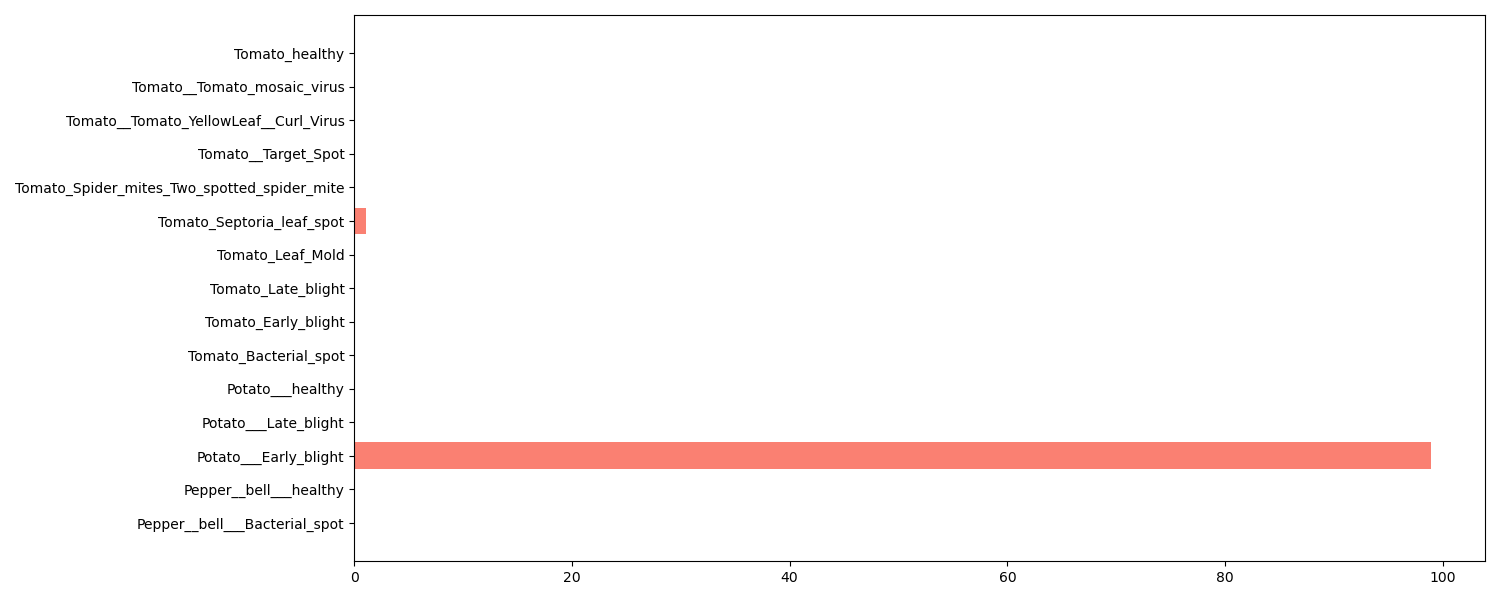
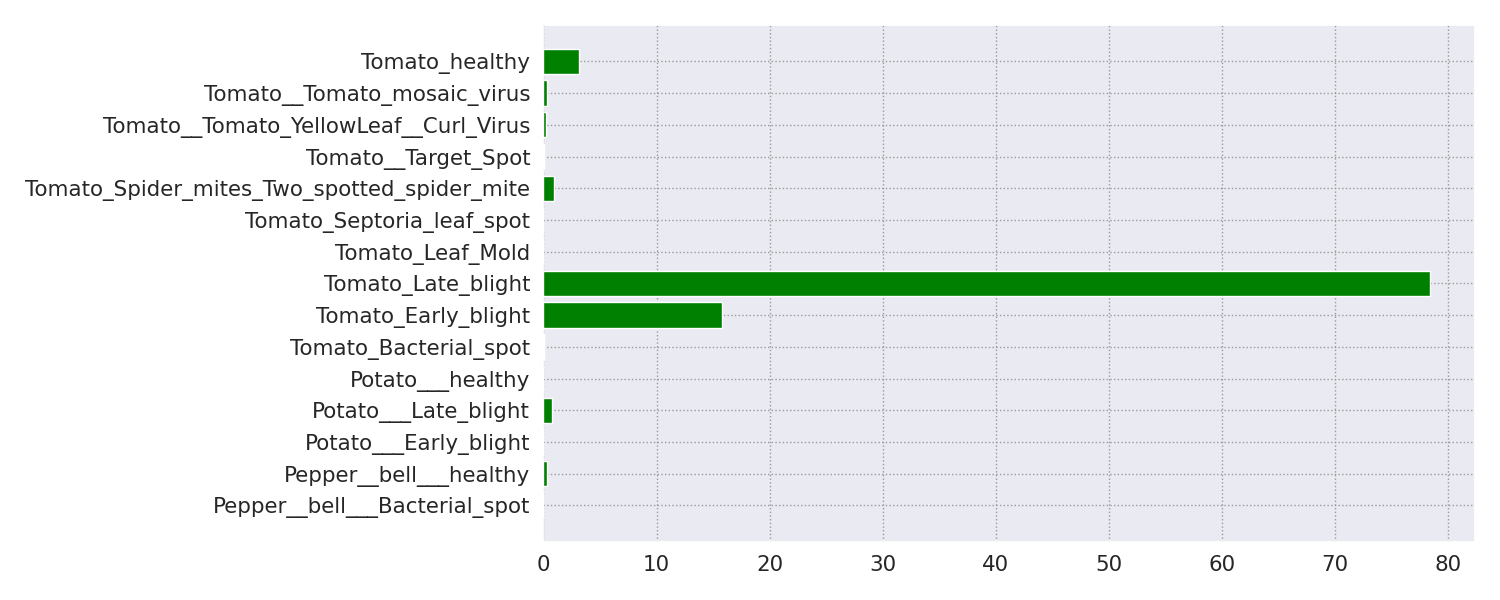
heavy changes - breedplot removed,

diff --git a/templates/index.html b/templates/index.html
@@ -5,11 +5,7 @@
     <meta charset="UTF-8">
     <meta http-equiv="X-UA-Compatible" content="IE=edge">
     <meta name="viewport" content="width=device-width, initial-scale=1.0">
-    <link href="{{ url_for('static', filename='css/bootstrap.min.css') }}" rel="stylesheet">
-    <script src="{{ url_for('static', filename='js/jquery.min.js') }}"></script>
-    <script src="{{ url_for('static', filename='js/bootstrap.min.js') }}"></script>
-    <link href="{{ url_for('static', filename='css/test.css') }}" rel="stylesheet">
-    <script src="{{ url_for('static', filename='js/newjs.js') }}" type="text/javascript"></script>
+
     <title>STL Homepage</title>
 </head>
 <body>
@@ -32,7 +28,7 @@
 
     <br>
     
-    <form id="upload-file" method="post" enctype="multipart/form-data">
+    <form id="upload-file" method="post" enctype="multipart/form-data" action="predict">
          <input type="file" name="file" class="btn btn-outline-info" id="imageUpload" accept=".png, .jpg, .jpeg">
 
          <label for="predictor">Choose a Predictor Model:</label>
@@ -43,36 +39,31 @@
            <option value="imagenet">ImageNet</option>
          </select>
 
+         <input type="submit" value="Predict the disease">
 
     </form>
-
-
-    <div class="image-section" style="display:none;">
-         <img id="imagePreview"  class="img-responsive" src="#" style="width:300px;height:300px;"/><br><br>
-         <div>
-            <button type="button" class="btn btn-warning" id="btn-predict">Predict!</button>
-         </div>
-
-         
-    </div>
 
 
 
 
     <div class="loader" style="display:none;"></div>
 
-    <h3 id="result">
-        <span> </span>
 
-    </h3>
+
+    <h2 id="img_url">
+        <span></span>
+    </h2>
 
 
 
     </div>
 
-    <div>
-        <a class="button is-link" href="{{ url_for('breedplot') }}">Show Probability for the model output</a>
-    </div>
+
+
+
+
+ 
+
 
     
 </center><br><br>

diff --git a/templates/resulting.html b/templates/resulting.html
@@ -1,0 +1,27 @@
+<!DOCTYPE html>
+<html lang="en">
+<head>
+    <meta charset="UTF-8">
+    <meta http-equiv="X-UA-Compatible" content="IE=edge">
+    <meta name="viewport" content="width=device-width, initial-scale=1.0">
+    <title>Plotting </title>
+</head>
+<body>
+    
+    <div style="color:rgb(118, 238, 198); background-color:black; height: 60px;width: 1450px;text-align: center;"> 
+        <span style="text-align:center ; font-size:50px"> Result DashBoard </span>
+    </div>
+
+    <h3 id="result" align="center" style="margin-top :30px">
+        The name of the disease is : <span style="color:red"> {{result}} </span>
+
+    </h3>
+
+    <div style="margin-top: 40px; margin-left: 90px;margin-right: 50px;">
+        <h4> The output of the softmax layer is shown in the following graph</h4>
+
+        <img src={{img_url}} alt="Chart" height="450px" width="990px">
+    </div>
+
+</body>
+</html>

diff --git a/app.py b/app.py
@@ -14,6 +14,9 @@ import matplotlib.pyplot as plt
 from matplotlib.backends.backend_agg import FigureCanvasAgg as FigureCanvas
 from matplotlib.figure import Figure
 import time 
+import seaborn as sns
+sns.set_style("darkgrid", {"grid.color": ".6", "grid.linestyle": ":"})
+sns.set_context("notebook", font_scale=1.4, rc={"lines.linewidth": 2.5})
 
 # Flask utils
 from flask import Flask, redirect, url_for, request, render_template
@@ -49,9 +52,10 @@ def index():
     return render_template('index.html')
 
 
-@app.route('/predict', methods=['GET', 'POST'])
+@app.route('/predict', methods=['POST'])
 def upload():
     if request.method == 'POST':
+        
         # Get the file from post request
         f = request.files['file']
         select_pred = request.form.get('predictor')
@@ -106,24 +110,32 @@ def upload():
         ind=np.argmax(a)
         print('Prediction:', disease_class[ind])
         result=disease_class[ind]
+        img_url='static/images/probability_bars.png'
+        plt.figure(figsize=(15,6))
+        plt.barh(disease_class,a,color='green')   
+        plt.tight_layout()
+        plt.savefig(img_url)
+        
+        
+        return render_template('resulting.html',result=result,img_url=img_url)
 
-        return result
+
     return None
 
 
 
-@app.route('/breedplot')
-def breedplot():
-    global disease_class
-    global a
-    img_url='static/images/probability_bars.png'
-    plt.figure(figsize=(15,6))
-    plt.barh(disease_class,a,color='salmon')   
-    plt.tight_layout()
-    plt.savefig(img_url)
-    time.sleep(10)
+# @app.route('/breedplot')
+# def breedplot():
+#     global disease_class
+#     global a
+#     img_url='static/images/probability_bars.png'
+#     plt.figure(figsize=(15,6))
+#     plt.barh(disease_class,a,color='yellow')   
+#     plt.tight_layout()
+#     plt.savefig(img_url)
+#     time.sleep(10)
 
-    return render_template('plotting.html', name = 'probability_bars', url = img_url)
+#     return render_template('plotting.html', name = 'probability_bars', url = img_url)
 
 
 
